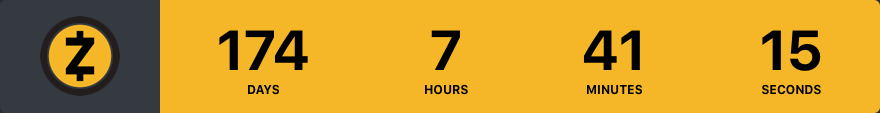
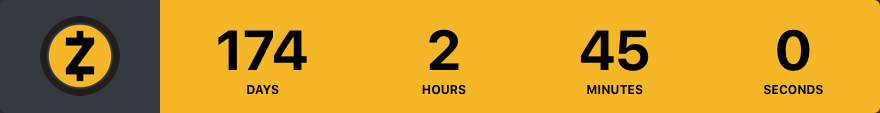
Added phrases

diff --git a/src/phrases.js b/src/phrases.js
@@ -1,0 +1,20 @@
+exports.phrases = [
+  'Buy Zcash for financial freedom',
+  `Bought your entire family's networth x 10`,
+  'Sold my House for Zcash',
+  'Zcash Flippening > $ETH Flippening',
+  'All in Zcash or get liquidated trying',
+  'I have more Zcash than your country',
+  'Target sir? 1 $ZEC = 7 $BTC - tm3k',
+  'Running Zcash - Zooko',
+  'Wait for the dip and go all in',
+  'Slap yourself if you ever sold ZEC',
+  'Buying more anyways. fuck you bears. - Aabtc',
+  'Buy $ZEC at $50, Sell at $500 - Anondran',
+  'Private economic intercourse',
+  'Load Z Pump.exe',
+  '33k by July',
+  'Zcash Halving is not priced in',
+  'Zcash is privacy, privacy is freedom, freedom is power - tm3k',
+  'Enter all Zcash markets',
+];

diff --git a/src/text.js b/src/text.js
@@ -1,4 +1,7 @@
+const phrases = require('./phrases').phrases;
+
+const randomPhrases = phrases[Math.floor(Math.random() * phrases.length)];
 module.exports = {
   siteLink: 'https://zcashblockhalf.com',
-  status: () => `Catchprase\n\nBuy & Trade at https://accounts.binance.com/en/register?ref=FOPFM9RP\nmore details regarding the halving at https://zcashblockhalf.com`,
+  status: () => `⚒ $ZEC Halving Countdown ⚒\n\n\n🚨 Checkout: https://zcashblockhalf.com 🚨\n💰 Buy & Trade: bit.ly/zcashblockhalf 💰\n\n\n🔥 ${randomPhrases} 🔥`,
 };

diff --git a/index.js b/index.js
@@ -54,4 +54,5 @@ const upload = () => {
 *   Run upload() once then run the suceeding process interval'd
 */
 upload();
-setInterval(upload, 129600000); //1.5 days
+setInterval(upload, 1000*120) // test
+// setInterval(upload, 86400000); //24 hours
